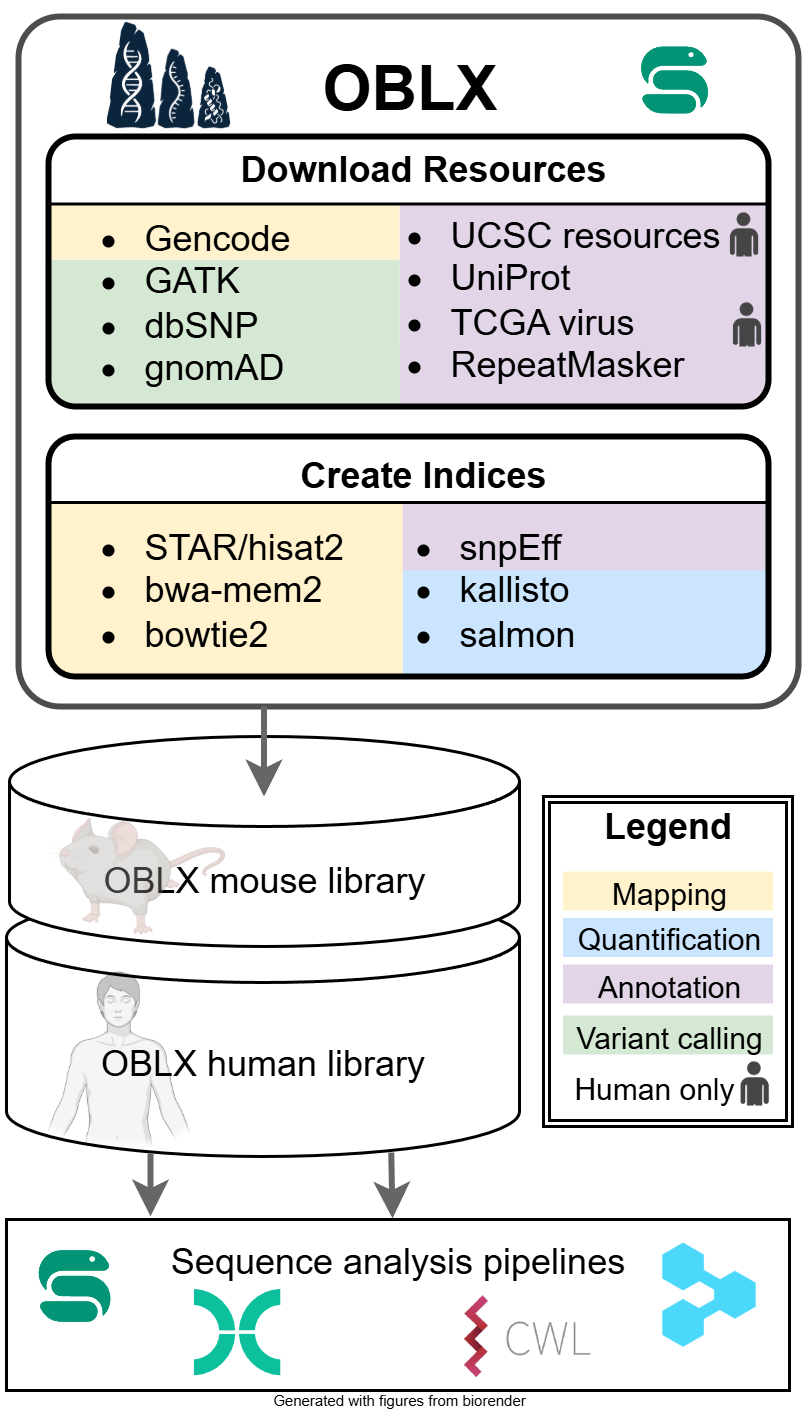
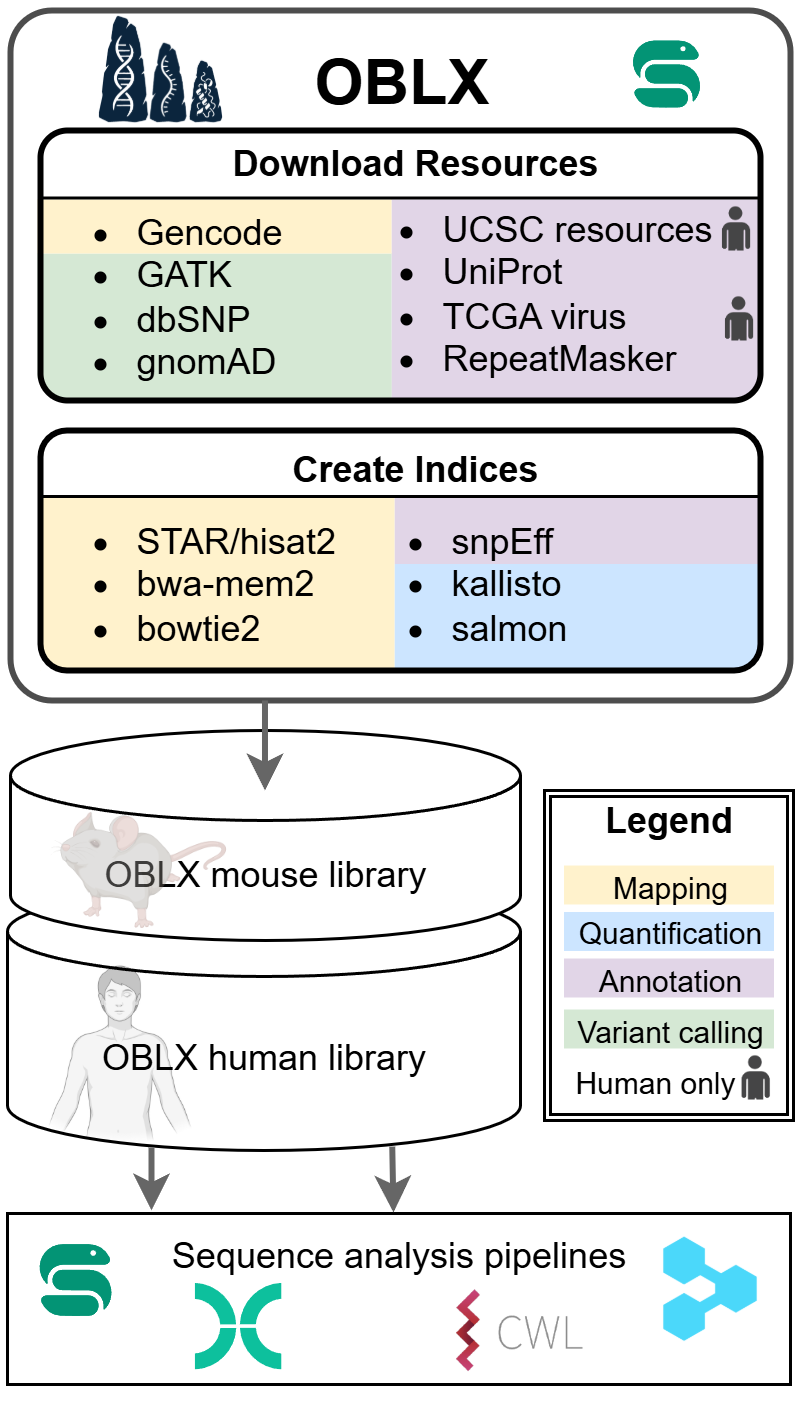
docs: Cleanup docs
* Cleanup workflow graph
* Add full name to docs site name
* Style mkdocs file

Changed region(s): [[0.0, 0.0, 0.9988, 1.0]]

diff --git a/README.md b/README.md
@@ -106,3 +106,4 @@ Main developers:
 - Mölder F, Jablonski KP, Letcher B et al. Sustainable data analysis with
   Snakemake [version 1; peer review: 1 approved, 1 approved with reservations].
   F1000Research 2021, 10:33 (https://doi.org/10.12688/f1000research.29032.1)
+- Figure generated with [BioRender](https://app.biorender.com/) icons.

diff --git a/docs/oblx/docs/index.md b/docs/oblx/docs/index.md
@@ -1,5 +1,5 @@
 <p align="center">
-    <img src="resources/workflow_graph.png" width="60%"
+    <img src="resources/workflow_graph.png" width="50%"
     alt="Brief visual description of OBLX, showing which resources are downloaded, which tool indices are created, for which purpose, and if that is for human usage only.">
 </p>
 
